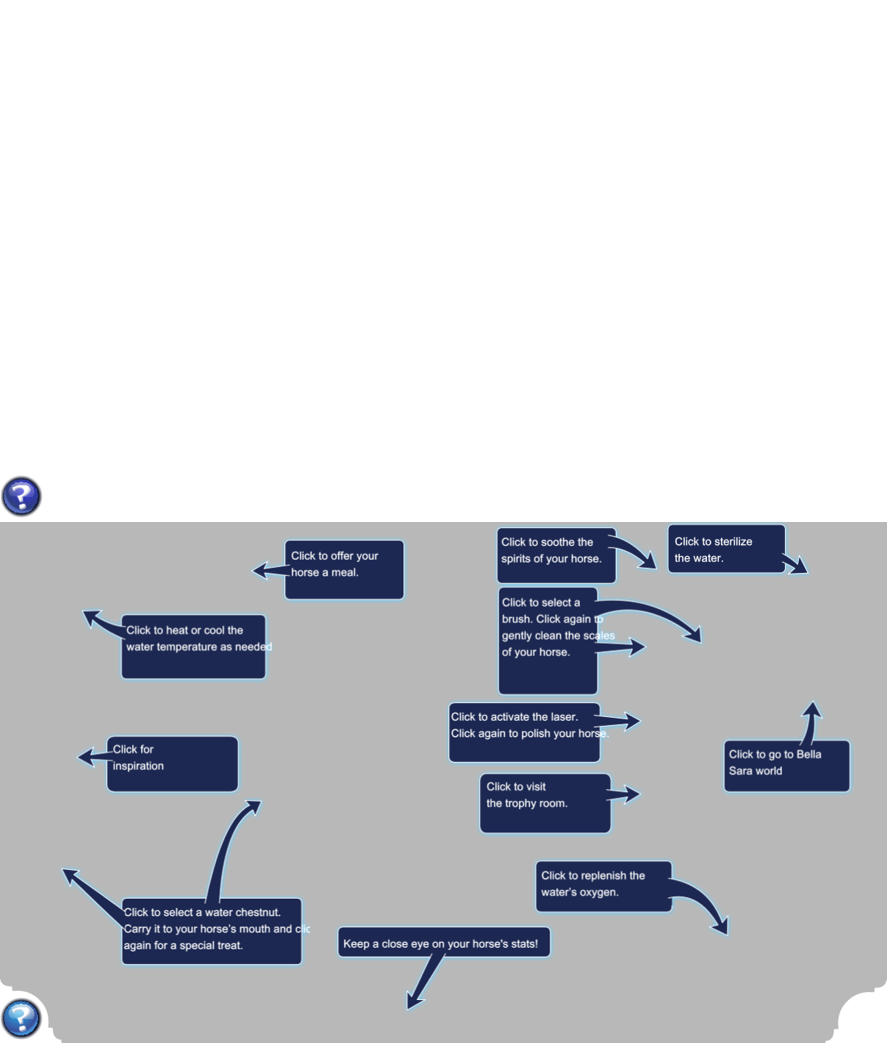
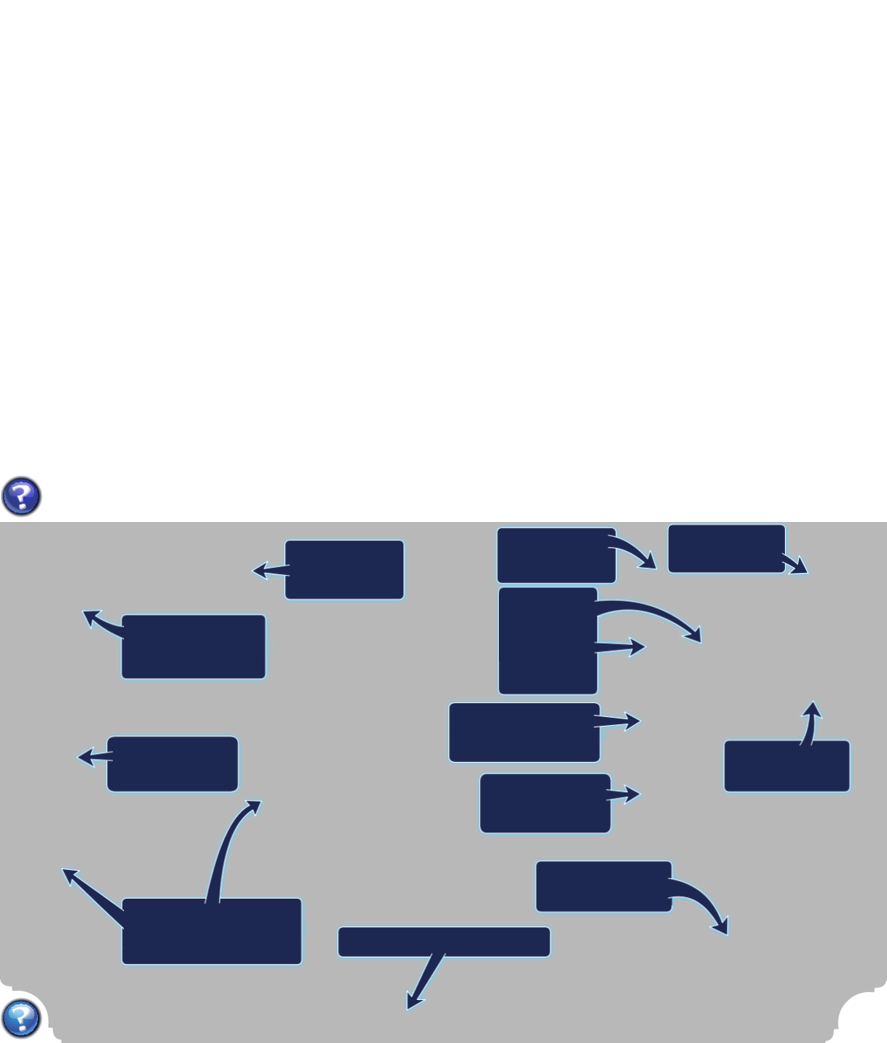
Add loca help overlay water stable

diff --git a/public/stablesrecreation/js/waterStable.js b/public/stablesrecreation/js/waterStable.js
@@ -925,8 +925,103 @@ class WaterStable extends Phaser.Scene
             musicButton.on('pointerout', function (pointer) { this.setFrame(`music_${playMusic ? 'on' : 'off'}`) });
         // help button
         const helpButton = this.add.sprite(444, 261, 'help_button', 'idle').setInteractive(this.input.makePixelPerfect(150));
-            helpButton.on('pointerover', function (pointer) { this.setFrame('help') });
-            helpButton.on('pointerout', function (pointer) { this.setFrame('idle') });
+            const hoverTextSettingsStatsHelp = {
+                font: 'bold 11px Arial', 
+                align: 'center',
+                color: '#ffffff',
+            }
+
+            const hoverTextSettingsChestutHelp = {
+                font: 'bold 14px Arial', 
+                align: 'center',
+                color: '#ffffff',
+                wordWrap: {width: 200},
+                lineSpacing: -2
+            }
+
+            const hoverTextSettingsBrushHelp = {
+                font: 'bold 14px Arial', 
+                align: 'center',
+                color: '#ffffff',
+                wordWrap: {width: 100},
+                lineSpacing: -2
+            }
+
+            const hoverTextSettingsLaserHelp = {
+                font: 'bold 15px Arial', 
+                align: 'center',
+                color: '#ffffff',
+                wordWrap: {width: 150},
+                lineSpacing: -2
+            }
+
+            const helpTrophyText = this.add.text(545, 280, 'Static Text Object', hoverTextSettings).setAlpha(0);
+            helpTrophyText.text = localeData.txtHelpTrophyRoom;
+            helpTrophyText.setOrigin(0.5)
+            const helpThermostatText = this.add.text(197, 125, 'Static Text Object', hoverTextSettings).setAlpha(0);
+            helpThermostatText.text = localeData.txtHelpThermostat;
+            helpThermostatText.setOrigin(0.5)
+            const helpStatsText = this.add.text(445, 420, 'Static Text Object', hoverTextSettingsStatsHelp).setAlpha(0);
+            helpStatsText.text = localeData.txtHelpStats;
+            helpStatsText.setOrigin(0.5)
+            const helpMusicText = this.add.text(560, 35, 'Static Text Object', hoverTextSettings).setAlpha(0);
+            helpMusicText.text = localeData.txtHelpMusic;
+            helpMusicText.setOrigin(0.5)
+            const helpInspirationText = this.add.text(175, 240, 'Static Text Object', hoverTextSettings).setAlpha(0);
+            helpInspirationText.text = localeData.txtHelpInspiration;
+            helpInspirationText.setOrigin(0.5)
+            const helpCleanerText = this.add.text(730, 27, 'Static Text Object', hoverTextSettings).setAlpha(0);
+            helpCleanerText.text = localeData.txtHelpCleaner;
+            helpCleanerText.setOrigin(0.5)
+            const helpChestnutText = this.add.text(215, 410, 'Static Text Object', hoverTextSettingsChestutHelp).setAlpha(0);
+            helpChestnutText.text = localeData.txtHelpChestnut;
+            helpChestnutText.setOrigin(0.5)
+            const helpFoodText = this.add.text(347, 47, 'Static Text Object', hoverTextSettings).setAlpha(0);
+            helpFoodText.text = localeData.txtHelpFood;
+            helpFoodText.setOrigin(0.5)
+            const helpWorldText = this.add.text(792, 243, 'Static Text Object', hoverTextSettings).setAlpha(0);
+            helpWorldText.text = localeData.txtHelpWorld1;
+            helpWorldText.setOrigin(0.5)
+            const helpLaserText = this.add.text(525, 210, 'Static Text Object', hoverTextSettingsLaserHelp).setAlpha(0);
+            helpLaserText.text = localeData.txtHelpLaserThing;
+            helpLaserText.setOrigin(0.5)
+            const helpBrushText = this.add.text(550, 120, 'Static Text Object', hoverTextSettingsBrushHelp).setAlpha(0);
+            helpBrushText.text = localeData.txtHelpBrushes;
+            helpBrushText.setOrigin(0.5)
+            const helpOxygenText = this.add.text(605, 365, 'Static Text Object', hoverTextSettings).setAlpha(0);
+            helpOxygenText.text = localeData.txtHelpOxygen;
+            helpOxygenText.setOrigin(0.5)
+        
+            helpButton.on('pointerover', function (pointer) { 
+                this.setFrame('help') 
+                helpTrophyText.setAlpha(1);
+                helpThermostatText.setAlpha(1);
+                helpStatsText.setAlpha(1);
+                helpMusicText.setAlpha(1);
+                helpInspirationText.setAlpha(1);
+                helpCleanerText.setAlpha(1);
+                helpChestnutText.setAlpha(1);
+                helpFoodText.setAlpha(1);
+                helpWorldText.setAlpha(1);
+                helpLaserText.setAlpha(1);
+                helpBrushText.setAlpha(1);
+                helpOxygenText.setAlpha(1);
+            });
+            helpButton.on('pointerout', function (pointer) { 
+                this.setFrame('idle') 
+                helpTrophyText.setAlpha(0);
+                helpThermostatText.setAlpha(0);
+                helpStatsText.setAlpha(0);
+                helpMusicText.setAlpha(0);
+                helpInspirationText.setAlpha(0);
+                helpCleanerText.setAlpha(0);
+                helpChestnutText.setAlpha(0);
+                helpFoodText.setAlpha(0);
+                helpWorldText.setAlpha(0);
+                helpLaserText.setAlpha(0);
+                helpBrushText.setAlpha(0);
+                helpOxygenText.setAlpha(0);
+            });
 
 
         // Progress bars
